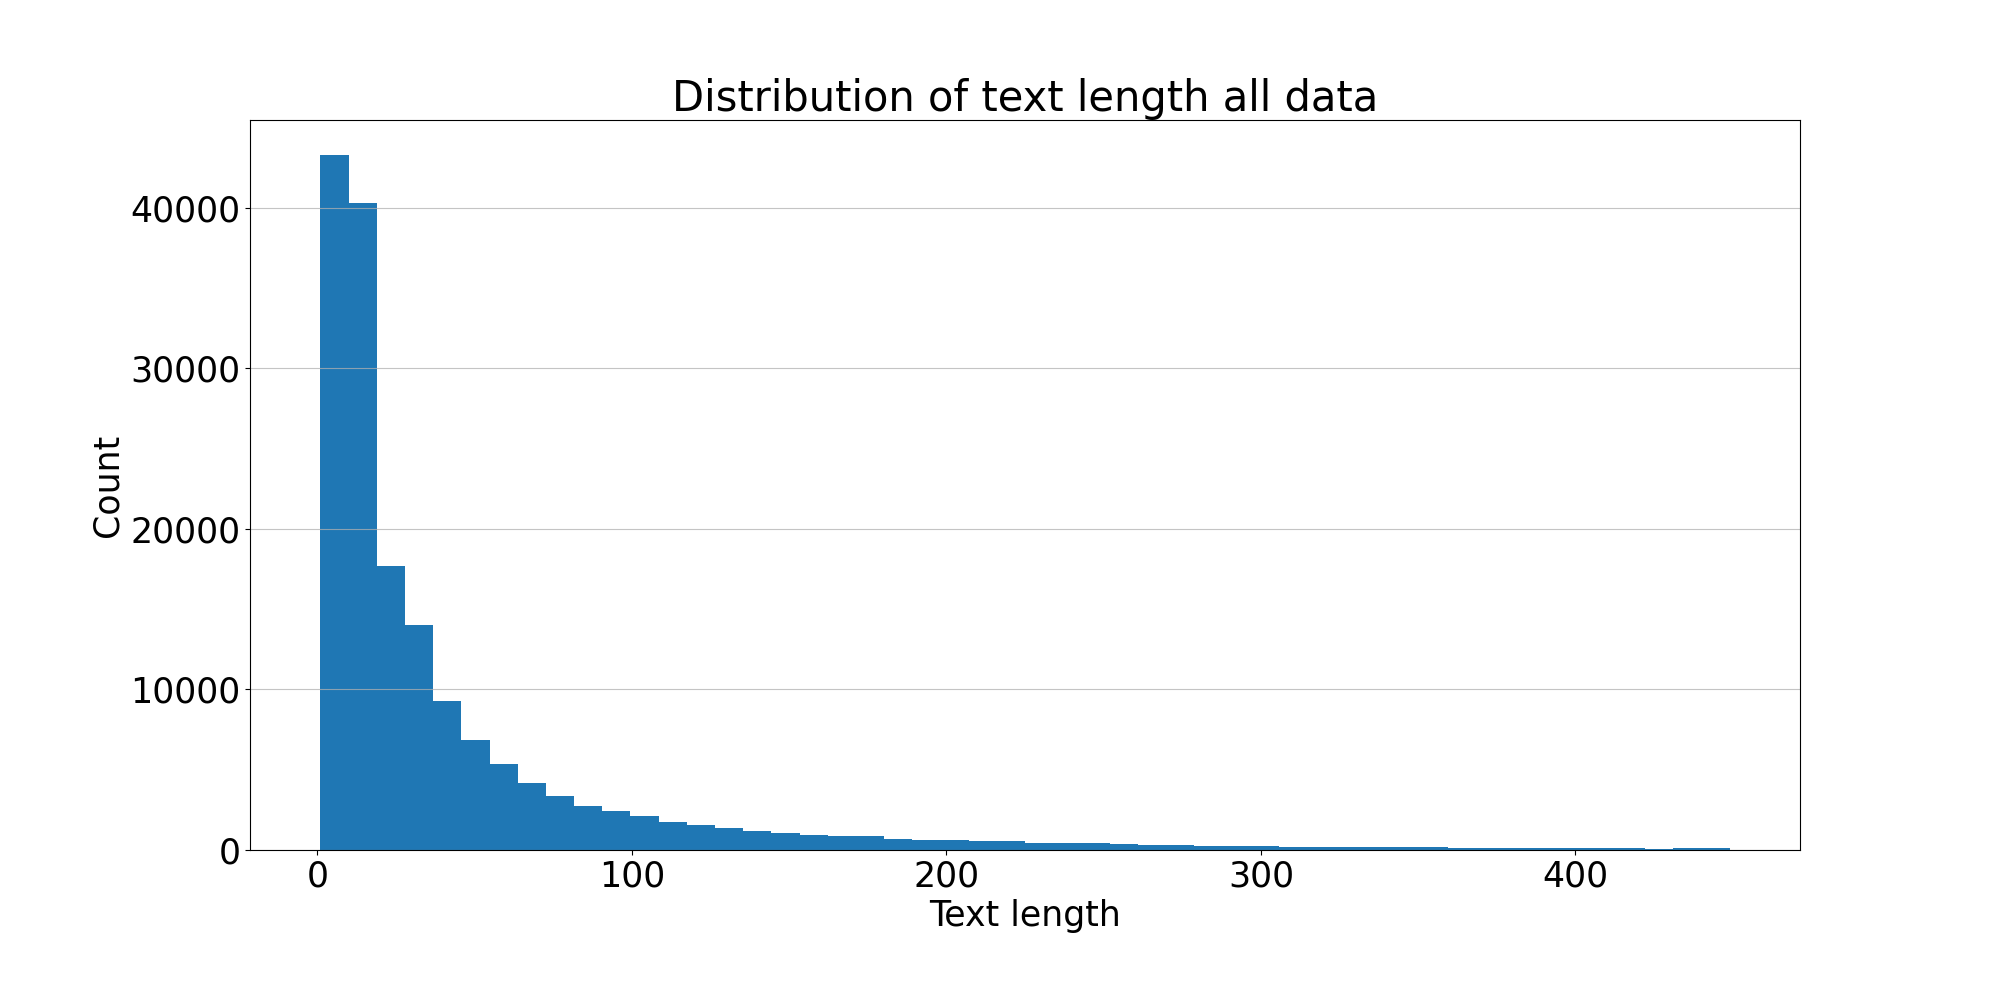
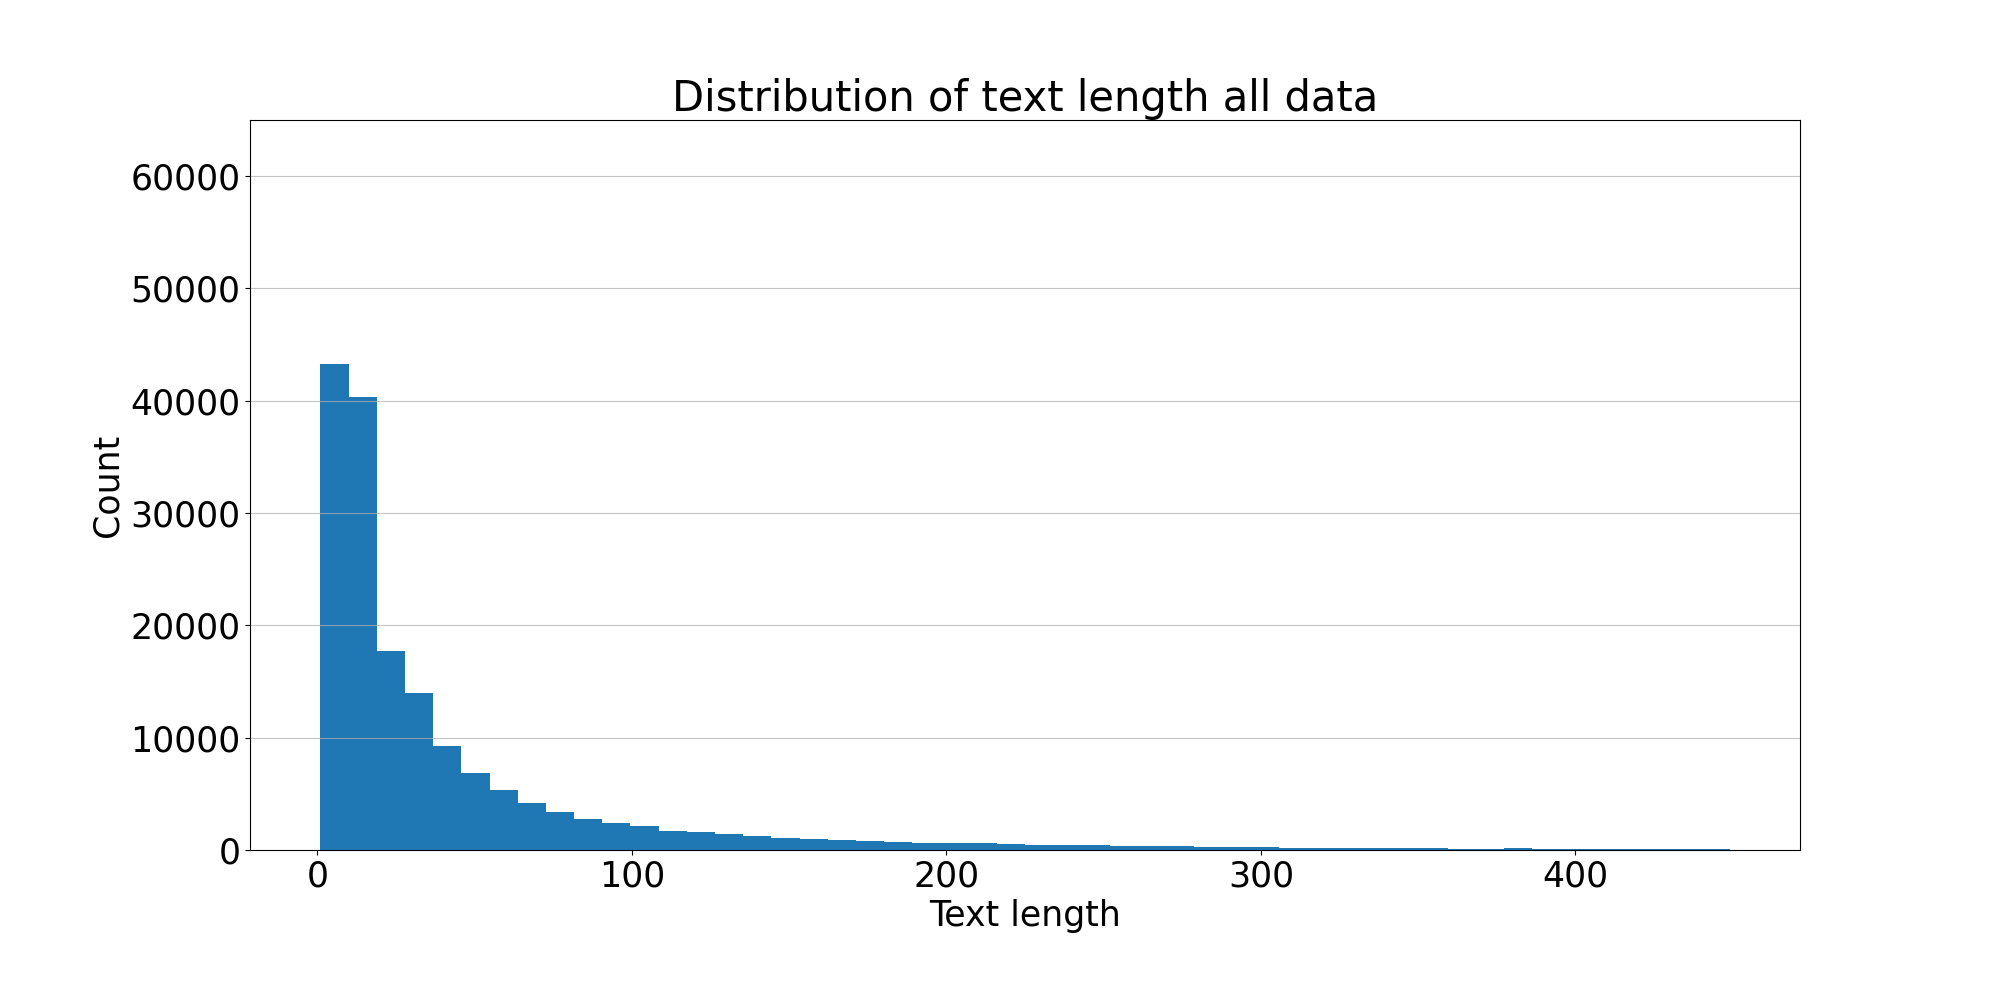
More plots

diff --git a/data_analysis.py b/data_analysis.py
@@ -1,6 +1,9 @@
 import matplotlib.pyplot as plt
 import spacy
 from collections import Counter
+from tabulate import tabulate
+import json
+
 
 nlp = spacy.load('en_core_web_sm')
 
@@ -25,13 +28,14 @@ def word_counts(data):
     return word_counts
 
 def plot_word_count(data, save=False, concat_string=''):
-    #plt.clf()
     plt.figure(figsize=(20, 10))
     plt.subplots_adjust(bottom=0.30)
     plt.grid(axis='y', alpha=0.75)
     plt.title(f'Word count{concat_string.replace("_", " ")}')
     plt.xlabel('Word')
     plt.ylabel('Count')
+
+    plt.ylim(0, 75000)
 
     counts = word_counts(data)
     keep = counts[:50]
@@ -42,7 +46,6 @@ def plot_word_count(data, save=False, concat_string=''):
     plt.savefig(f'plots/word_count{concat_string}.png') if save else plt.show()
 
 def plot_text_length(data, save=False, concat_string=''):
-    plt.clf()
     plt.figure(figsize=(20, 10))
     plt.subplots_adjust(bottom=0.15)
     plt.grid(axis='y', alpha=0.75)
@@ -50,6 +53,8 @@ def plot_text_length(data, save=False, concat_string=''):
     plt.title(f'Distribution of text length{concat_string.replace("_", " ")}')
     plt.xlabel('Text length')
     plt.ylabel('Count')
+
+    plt.ylim(0, 65000)
 
     data['Summary'].str.len().hist(bins=50)
     plt.savefig(f'plots/text_length{concat_string}.png') if save else plt.show()
@@ -60,13 +65,14 @@ def plot_text_length(data, save=False, concat_string=''):
     print(f"Average text length: {data['Summary'].str.len().mean()}")
 
 def plot_distribution_sentiment(data, save=False, concat_string=''):
-    plt.clf()
     plt.figure(figsize=(20, 10))
     plt.subplots_adjust(bottom=0.15)
     plt.grid(axis='y', alpha=0.75)
     plt.title(f'Distribution of sentiment{concat_string.replace("_", " ")}')
     plt.xlabel('Sentiment')
     plt.ylabel('Count')
+
+    plt.ylim(0, 12000)
 
     data['Sentiment'].value_counts().plot(kind='bar')
 
@@ -90,13 +96,113 @@ def analyze_data(data, save=False, concat_string=''):
     plot_text_length(data, save, concat_string)
 
 
+def overall_tests(data):
+    sentiments_dict = {0: 'negative', 1: 'neutral', 2: 'positive'}
+
+    # How many times does the word "good" appear for each sentiment? relative to how many times each sentiment appears
+    positive_length = len(data[data['Sentiment'] == 2])
+    neutral_length = len(data[data['Sentiment'] == 1])
+    negative_length = len(data[data['Sentiment'] == 0])
+
+    results = {}
+
+    # Top 10 words for each sentiment
+    for key, sentiment in sentiments_dict.items():
+        #print(f"Top 10 words for {sentiment}")
+        top_10 = word_counts(data[data['Sentiment'] == key])[:10]
+
+        results[key] = {}
+
+        for word in top_10:
+            word = word[0]
+            positive_count = data[data['Sentiment'] == 2]['Summary'].str.lower().str.count(word).sum() / positive_length
+            neutral_count = data[data['Sentiment'] == 1]['Summary'].str.lower().str.count(word).sum() / neutral_length
+            negative_count = data[data['Sentiment'] == 0]['Summary'].str.lower().str.count(word).sum() / negative_length
+
+            # print(f"Word: {word}")
+            # print(f"Positive count: {positive_count}")
+            # print(f"Neutral count: {neutral_count}")
+            # print(f"Negative count: {negative_count}")
+
+            # print()
+
+            results[key][word] = {'positive': positive_count, 'neutral': neutral_count, 'negative': negative_count}
+
+        print()
+
+    # Sort all results
+    for key, sentiment in sentiments_dict.items():
+        results[key] = {k: v for k, v in sorted(results[key].items(), key=lambda item: item[1]['positive'], reverse=True)}
+
+    # Plot results
+    for key, sentiment in sentiments_dict.items():
+        plt.clf()
+        plt.figure(figsize=(20, 10))
+        plt.subplots_adjust(bottom=0.30)
+        plt.grid(axis='y', alpha=0.75)
+        plt.title(f'Top 10 words for {sentiment}')
+        plt.xlabel('Word')
+        plt.ylabel('Count')
+
+        plt.ylim(0, 0.5)
+
+        names = [x for x in results[key].keys()]
+        values = [results[key][x]['positive'] for x in results[key].keys()]
+        plt.xticks(rotation=90)
+        plt.bar(names, values)
+        plt.savefig(f'plots/top_10_words_{sentiment}.png')
+
+    # Print the value for "good" for each sentiment
+    for key, sentiment in sentiments_dict.items():
+        print(f"Value for 'good' for {sentiment}: {results[key]['good']}")
+        
+def loss_plot(file, save=False, concat_string=''):
+    with open(file, 'r') as f:
+        data = json.load(f)
+
+    train_loss = []
+    train_loss_step = []
+    val_loss = []
+    val_loss_step = []
+    for time_step in data:
+        if "loss" in time_step:
+            train_loss.append(time_step['loss'])
+            train_loss_step.append(time_step['step'])
+        elif "eval_loss" in time_step:
+            val_loss.append(time_step['eval_loss'])
+            val_loss_step.append(time_step['step'])
+        else:
+            print("Stats")
+            print(json.dumps(time_step, indent=4))
+
+    plt.figure(figsize=(20, 10))
+    plt.subplots_adjust(bottom=0.15)
+    plt.grid(axis='y', alpha=0.75)
+    plt.title(f'Loss over time')
+    plt.xlabel('Step')
+    plt.ylabel('Loss')
+
+    plt.plot(train_loss_step, train_loss, label='Training loss')
+    plt.plot(val_loss_step, val_loss, label='Validation loss')
+    plt.legend()
+    plt.savefig(f'plots/loss_over_time{concat_string}.png') if save else plt.show()
+
+
 
 if __name__ == '__main__':
     cleaned_data = read_clean_data()
     analyze_data(cleaned_data, save=True, concat_string='_all_data')
 
-    # Plots changes for over sampling
-    train, test = split_data(cleaned_data, random_state=42, validation=False, over_sample_train=False)
-    analyze_data(train, save=True, concat_string=f"_training_data_before_over_sample")
-    train = over_sample(train, 42)
-    analyze_data(train, save=True, concat_string=f"_training_data_after_over_sample")
+    # # Overall test
+    # overall_tests(cleaned_data)
+
+    # # Plots changes for over sampling
+    # train, test = split_data(cleaned_data, random_state=42, validation=False, over_sample_train=False)
+    # analyze_data(train, save=True, concat_string=f"_training_data_before_over_sample")
+    # over_samples_train = over_sample(train, 42)
+    # analyze_data(over_samples_train, save=True, concat_string=f"_training_data_after_over_sample")
+
+
+    # Plot loss over time
+    loss_plot('models/my/distilbert-base-uncased_log_history.json')
+    

diff --git a/train_my_model.py b/train_my_model.py
@@ -41,13 +41,6 @@ def compute_metrics(eval_pred):
     f1 = f1.tolist()
     avr_f1 = float(np.mean(f1))
 
-    # Print
-    print(f"Accuracy: {accuracy}", flush=True)
-    print(f"Recall: {recall}", flush=True)
-    print(f"Precision: {precision}", flush=True)
-    print(f"F1: {f1}", flush=True)
-    print(f"Average F1: {avr_f1}", flush=True)
-
     return {"accuracy": accuracy, "precision": precision, "recall": recall, "f1": f1, "avr_f1": avr_f1}
 
 if __name__ == '__main__':
@@ -55,8 +48,11 @@ if __name__ == '__main__':
     transformers.enable_full_determinism(seed)
     device = torch.device("cuda" if torch.cuda.is_available() else "cpu")
 
+    over_sample = False
+    over_sample_string = "over_sample" if over_sample else "no_over_sample"
+
     cleaned_data = read_clean_data()
-    train_data, validation_data, _ = split_data(cleaned_data, random_state=seed, validation=True, over_sample_train=True)
+    train_data, validation_data, _ = split_data(cleaned_data, random_state=seed, validation=True, over_sample_train=over_sample)
 
     model_name = "distilbert-base-uncased"
 
@@ -83,9 +79,9 @@ if __name__ == '__main__':
     validation_dataset = SentimentDataset(validation_encodings, validation_data['Sentiment'].tolist())
 
     training_args = TrainingArguments(
-        output_dir=f'./models/checkpoints/{model_name}/',
-        save_total_limit = 5,
-        eval_steps=500,
+        output_dir=f'./models/checkpoints/{model_name}_{over_sample_string}/',
+        save_total_limit = 10,
+        eval_steps=100,
         learning_rate=2e-4,
         num_train_epochs=4,
         per_device_train_batch_size=64,
@@ -105,15 +101,15 @@ if __name__ == '__main__':
         train_dataset=train_dataset,
         eval_dataset=validation_dataset,
         compute_metrics=compute_metrics,
-        callbacks = [EarlyStoppingCallback(early_stopping_patience=5)]
+        callbacks = [EarlyStoppingCallback(early_stopping_patience=10)]
     )
 
 
     trainer.train()
     print(trainer.evaluate())
-    trainer.save_model(f"models/my/{model_name}_done")
+    trainer.save_model(f"models/my/{model_name}_{over_sample_string}_done")
 
     #print(trainer.state.log_history)
     # Save the log history
-    with open(f"models/my/{model_name}_log_history.json", "w") as f:
+    with open(f"models/my/{model_name}_log_history_{over_sample_string}.json", "w") as f:
         json.dump(trainer.state.log_history, f)

diff --git a/main_tests.py b/main_tests.py
@@ -14,16 +14,8 @@ if __name__ == '__main__':
 
     train, test = split_data(data, random_state=42, validation=False, over_sample_train=False)
 
-    #analyze_data(train, save=True, concat_string=f"_before_{seed}")
-    
-    #train = over_sample(train, seed)
-
-    #analyze_data(train, save=True, concat_string=f"_after_{seed}")
-
-
-
     # # Naive Bayes
-    # #find_optimal_parameters(train, test) # Default parameters best...
+    find_optimal_parameters(train, test) # Default parameters best...
     # test_naive_bayes(train, test)
     # test_optimized_naive_bayes(train, test) # No need to optimize, default parameters are best
 
@@ -31,5 +23,5 @@ if __name__ == '__main__':
     #test_simple_sentiment(test)
 
     # # my model
-    test_my_model(test, "models/my/distilbert-base-uncased_done")
+    # test_my_model(test, "models/my/distilbert-base-uncased_done")
         
